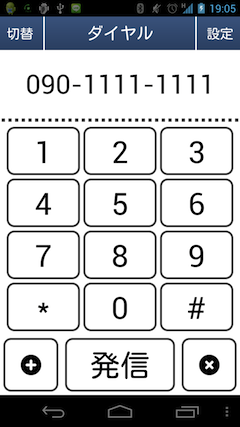
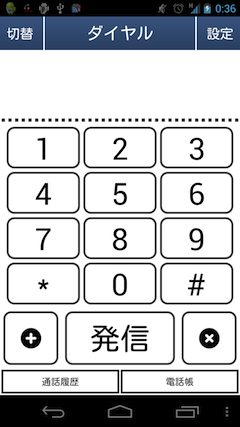
バージョン2.0

diff --git a/history.html b/history.html
@@ -60,6 +60,11 @@
         </div>
         <div class="row">
           <div class="span14">
+            <h2>バージョン 2.0 - 2012/06/23</h2>
+            <ul>
+              <li>ダイヤル画面に他機能へのボタンを追加しました。</li>
+              <li>連絡先詳細画面に別アプリで開くメニューを追加しました。</li>
+            </ul>
             <h2>バージョン 1.9 - 2012/05/09</h2>
             <ul>
               <li>ダイヤル画面を追加しました。</li>
